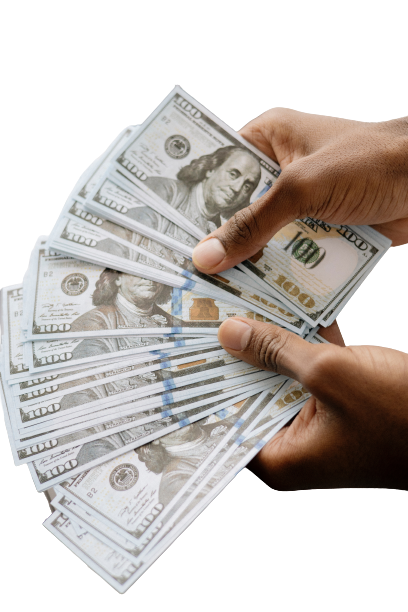
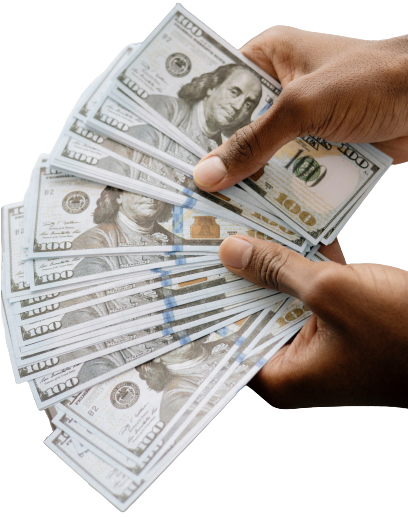
Home screen complete

diff --git a/frontend/src/screens/HomeScreen.styled.js b/frontend/src/screens/HomeScreen.styled.js
@@ -1,46 +1,106 @@
 import styled from 'styled-components';
 
 export const StyledHomeSection = styled.div`
-  img {
-    position: absolute;
-    top: 0;
-    right: 0;
-    width: 50%;
+  margin-top: 2rem;
+  display: grid;
+  grid-gap: 0.5rem;
+  @media (min-width: ${({ theme }) => theme.desktop}) {
+    margin-left: 155px;
+  }
+  grid-template-areas:
+    'homeTitleSmall'
+    'homeTitleLarge'
+    'homeImage'
+    'homeDescription'
+    'homeContact'
+    'homeBelieve'
+    'homeBelieve2';
+
+  @media (min-width: ${({ theme }) => theme.tablet}) {
+    grid-template-areas:
+      '. homeImage'
+      'homeTitleSmall homeImage'
+      'homeTitleLarge homeImage'
+      'homeDescription homeImage'
+      'homeContact homeImage'
+      'homeBelieve homeBelieve'
+      'homeBelieve2 homeBelieve2';
   }
 
-  h1 {
-    margin-top: 18rem;
-    font-size: 2rem;
-    font-weight: 400;
-
-    span {
-      font-weight: bold;
-      font-size: 3rem;
-      color: ${({ theme }) => theme.secondaryColor};
+  .home-title-small {
+    grid-area: homeTitleSmall;
+    font-size: 1.75rem;
+    @media (min-width: ${({ theme }) => theme.tablet}) {
+      font-size: 2rem;
     }
   }
 
-  button {
+  .home-title-large,
+  .home-believe-2 {
+    color: ${({ theme }) => theme.secondaryColor};
+  }
+
+  .home-title-large {
+    grid-area: homeTitleLarge;
+    font-size: 2.5em;
+    @media (min-width: ${({ theme }) => theme.tablet}) {
+      font-size: 3rem;
+    }
+  }
+
+  .home-img {
+    grid-area: homeImage;
+    justify-self: end;
+    max-width: 278px;
+  }
+
+  .home-description {
+    grid-area: homeDescription;
+    line-height: 1.5rem;
+  }
+
+  .home-contact {
+    grid-area: homeContact;
     margin: 2rem auto;
+    @media (min-width: ${({ theme }) => theme.tablet}) {
+      margin-left: 0;
+    }
+    padding: 5px 10px;
+    width: fit-content;
+    text-transform: uppercase;
+    letter-spacing: 0.1rem;
+    border-radius: 5px;
     background: ${({ theme }) => theme.primaryColor};
-    border-color: ${({ theme }) => theme.primaryColor};
     color: ${({ theme }) => theme.white};
 
     &:hover {
-      background: ${({ theme }) => theme.secondaryColor};
-      border-color: ${({ theme }) => theme.secondaryColor};
-      color: ${({ theme }) => theme.white};
+      @media (min-width: ${({ theme }) => theme.desktop}) {
+        background: ${({ theme }) => theme.secondaryColor};
+      }
     }
   }
 
-  h3 {
-    font-weight: 400;
+  .home-believe,
+  .home-believe-2 {
+    text-align: center;
+    @media (min-width: ${({ theme }) => theme.tablet}) {
+      text-align: left;
+    }
+  }
 
-    span {
-      color: ${({ theme }) => theme.secondaryColor};
-      font-size: 1.2em;
-      font-weight: bold;
-      margin-top: 0.5rem;
+  .home-believe {
+    grid-area: homeBelieve;
+    font-weight: 300;
+    @media (min-width: ${({ theme }) => theme.tablet}) {
+      font-size: 1.5rem;
+    }
+  }
+
+  .home-believe-2 {
+    grid-area: homeBelieve2;
+    font-size: 1.25rem;
+    @media (min-width: ${({ theme }) => theme.tablet}) {
+      font-size: 2rem;
     }
   }
 `;

diff --git a/frontend/src/screens/HomeScreen.js b/frontend/src/screens/HomeScreen.js
@@ -1,22 +1,28 @@
 import React from 'react';
+import { NavLink } from 'react-router-dom';
 import { StyledHomeSection } from './HomeScreen.styled';
 
 const HomeScreen = () => {
   return (
     <StyledHomeSection>
-      <img src='/img/receive-money.png' alt='A hand fanning out money.' />
-      <h1>
-        We've Found<span className='display-block'>Your Money</span>
-      </h1>
-      <p>
+      <img
+        src='/img/receive-money.png'
+        alt='A hand fanning out money.'
+        className='home-img'
+      />
+      <h2 className='home-title-small'>We've Found</h2>
+      <h1 className='home-title-large'>Your Money</h1>
+      <p className='home-description'>
         We audit public records and search for unclaimed funds held by
         government agencies and owed to private individuals.
       </p>
-      <button>Call Today</button>
-      <h3>
-        If we've contacted you, we believe we've located{' '}
-        <span className='display-block'>funds that belong to you!</span>
-      </h3>
+      <NavLink to='/contact' className='home-contact'>
+        Contact Us
+      </NavLink>
+      <h4 className='home-believe'>
+        If we've contact you, we believe we've located
+      </h4>
+      <h3 className='home-believe-2'>funds that belong to you!</h3>
     </StyledHomeSection>
   );
 };

diff --git a/frontend/src/screens/ContactScreen.styled.js b/frontend/src/screens/ContactScreen.styled.js
@@ -39,7 +39,7 @@ export const StyledContactSection = styled.div`
     place-self: center;
 
     @media (min-width: ${({ theme }) => theme.desktop}) {
-      width: 50%;
+      width: 75%;
     }
   }
 

diff --git a/frontend/src/components/Menu/Menu.styled.js b/frontend/src/components/Menu/Menu.styled.js
@@ -10,7 +10,7 @@ export const StyledMenu = styled.nav`
   height: 100vh;
   text-align: left;
   padding: 2rem;
-  position: absolute;
+  position: fixed;
   top: 0;
   right: 0;
   z-index: 10;

diff --git a/frontend/src/components/Burger/Burger.styled.js b/frontend/src/components/Burger/Burger.styled.js
@@ -1,7 +1,7 @@
 import styled from 'styled-components';
 
 export const StyledBurger = styled.button`
-  position: absolute;
+  position: fixed;
   top: 5%;
   right: 2rem;
   display: flex;
